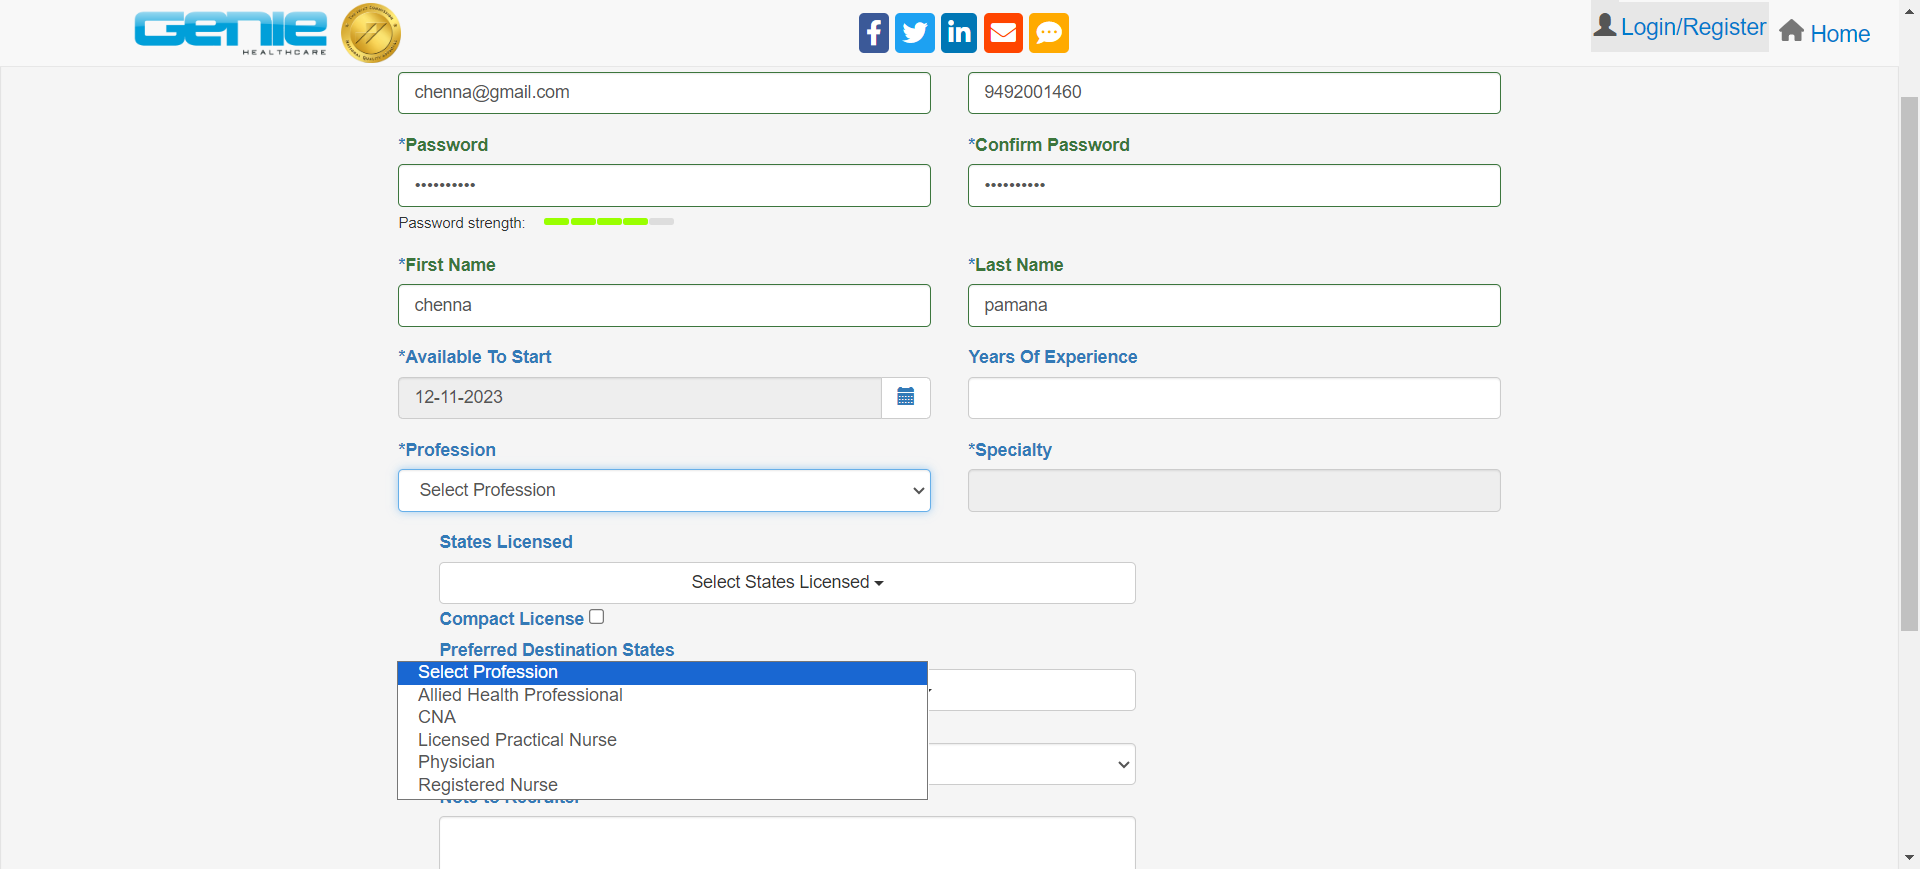
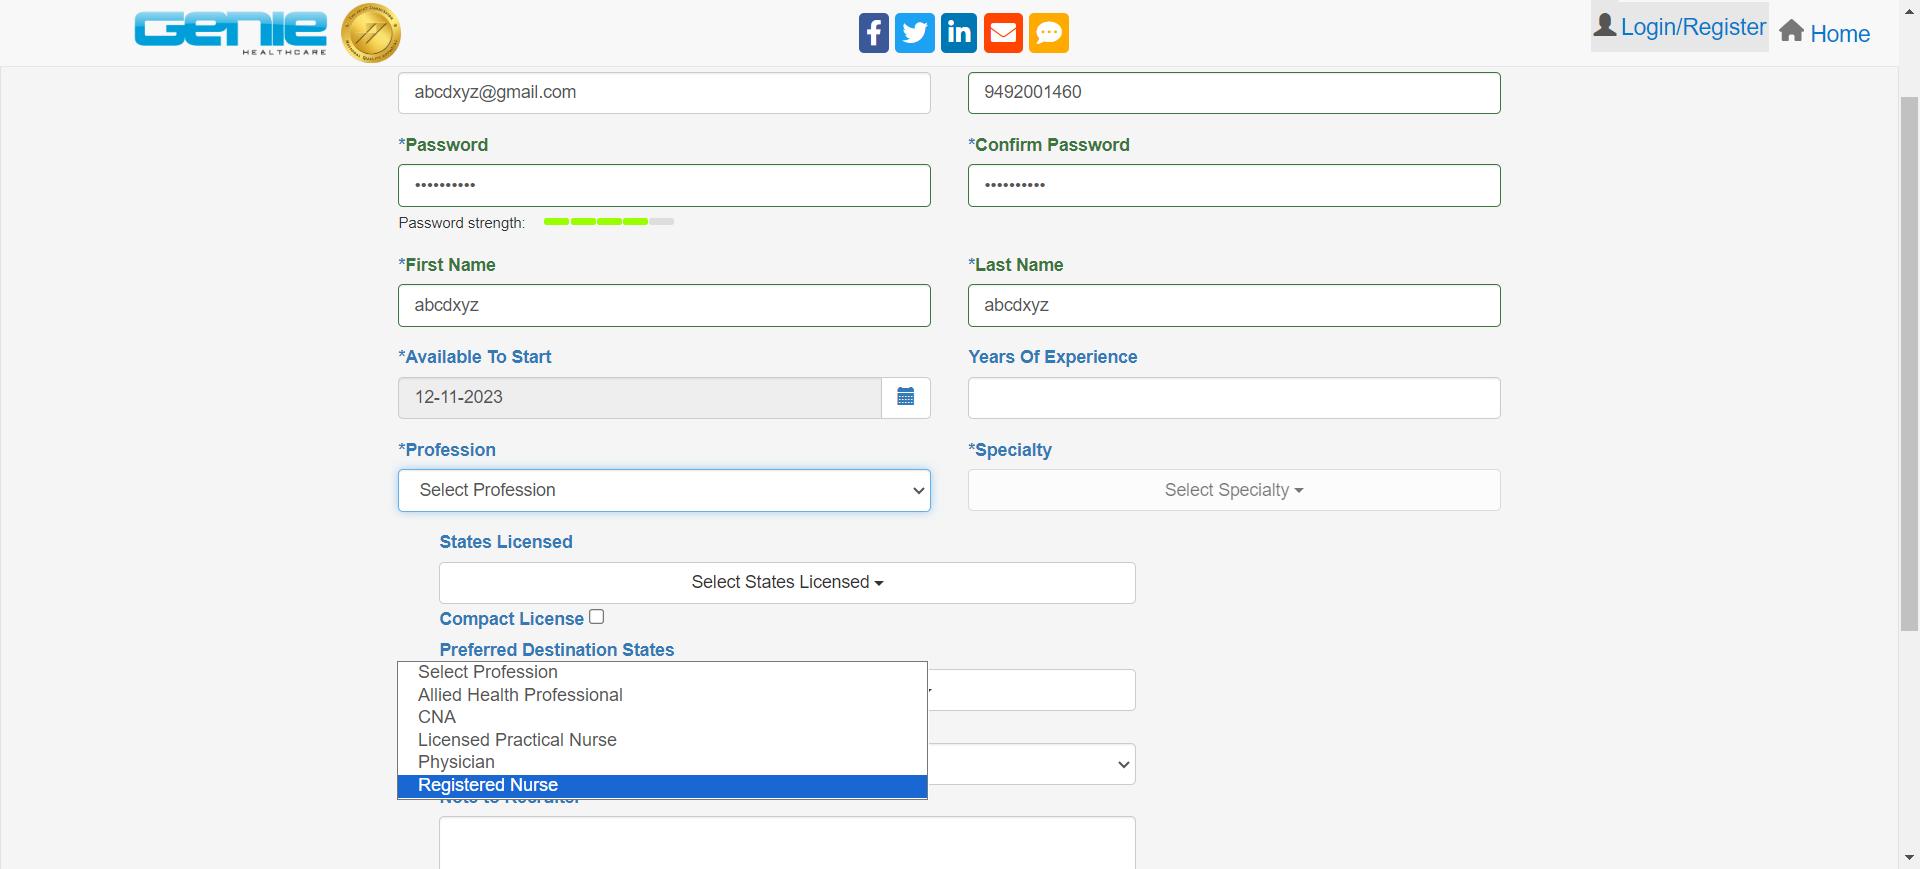
registration feature changes

diff --git a/features/step-definitions/genieregistration.steps.js b/features/step-definitions/genieregistration.steps.js
@@ -1,6 +1,9 @@
 const { Given, When, Then } = require('@wdio/cucumber-framework');
 const genieregistrationPage = require('../pageobjects/genieregistration.page');
 
+const path = require('path');
+const resumefilePath = path.join(__dirname, '"C:\Users\Chenna Pamalaboiyina\Downloads\Chennakeshava.Resume.doc"');
+
 //----------Email Field-----------//
 Given(/^user is on Genie Caregiver Registration form$/, async() => {
      await genieregistrationPage.genieurl();
@@ -28,9 +31,9 @@ When(/^user enter invalid email value$/, async(table) => {
 });
 
 Then('verify the email error message is {string}', async(errormessage) => {
-	let errormsgEle=genieregistrationPage.invalidEmailError;
+	let errormsgEle=genieregistrationPage.invalidEmailError2;
 	await expect(errormsgEle).toHaveTextContaining(errormessage);
-	console.log('Errormessage :'+errormsgEle.getText()); 
+	console.log('Errormessage :'+errormsgEle.getText());
 	await browser.pause(2000);
 });
 
@@ -196,17 +199,17 @@ Then('user is able to see a error message is {string}', async(error) => {
 
 When(/^user enter  multiple data into the firstname field$/, async(table) => {
      await genieregistrationPage.Firstname.clearValue();
-	 await browser.pause(2000);
+	 await browser.pause(1000);
 	 await genieregistrationPage.Firstname.setValue(table.raw()[0][0]);
-	 await browser.pause(2000);
+	 await browser.pause(1000);
 	 await genieregistrationPage.Firstname.clearValue();
-	 await browser.pause(2000);
+	 await browser.pause(1000);
 	 await genieregistrationPage.Firstname.setValue(table.raw()[1][0]);
-	 await browser.pause(2000);
+	 await browser.pause(1000);
 	 await genieregistrationPage.Firstname.clearValue();
-	 await browser.pause(2000);
+	 await browser.pause(1000);
 	 await genieregistrationPage.Firstname.setValue(table.raw()[2][0]);
-	 await browser.pause(2000);
+	 await browser.pause(1000);
 });
 
 When(/^user  click on Lastname field$/, async() => {
@@ -216,15 +219,15 @@ When(/^user  click on Lastname field$/, async() => {
 
 When(/^user enter valid data into the Lastname field$/, async(table) => {
 	await genieregistrationPage.Lastname.setValue(table.raw()[0][0]);
-	await browser.pause(2000);
+	await browser.pause(1000);
 	await genieregistrationPage.Lastname.clearValue();
-	await browser.pause(2000);
+	await browser.pause(1000);
 	await genieregistrationPage.Lastname.setValue(table.raw()[1][0]);
-	await browser.pause(2000);
+	await browser.pause(1000);
 	await genieregistrationPage.Lastname.clearValue();
-	await browser.pause(2000);
+	await browser.pause(1000);
 	await genieregistrationPage.Lastname.setValue(table.raw()[2][0]);
-	await browser.pause(2000);
+	await browser.pause(1000);
 });
   //----------calendar field--------//
  
@@ -262,7 +265,7 @@ Then('user select a future date as {string}', async(date) => {
 	await browser.pause(2000)
 	await genieregistrationPage.datePick(date).click();
 	await genieregistrationPage.calendarField.saveScreenshot('./Screenshots/dateText2.png');
-	await browser.pause(3000);
+	await browser.pause(2000);
 });
 
 // -------Profession and Specialty dropdowns------//
@@ -312,8 +315,10 @@ When(/^user select another option$/, async(text) => {
    
 });
 
-Then(/^user able to see a error message$/, async() => {
-     await browser.saveScreenshot('./Screenshots/errormsg.png');
+Then('user able to see a error message as {string}', async(error) => {
+	 await browser.saveScreenshot('./Screenshots/errormsg.png');
+	 var specialtyerror=await genieregistrationPage.SelectSpecialtyError;
+	 await expect(specialtyerror).toHaveTextContaining(error);
 	 await browser.pause(2000);
 });
 
@@ -352,3 +357,117 @@ Then(/^user select a given search option$/, async(text) => {
 	await genieregistrationPage.SpecialtyulForm(text.raw()[0][0]).click();
 	await browser.pause(2000);
 });
+//--------recruiter dropdowns-----//
+
+Given(/^user select a States Licensed button dropdown$/, async() => {
+    await genieregistrationPage.StatesLicensedButton.click();
+	await browser.pause(1000);
+});
+
+When(/^user selects below Licensed States$/, async(text) => {
+	await genieregistrationPage.StatesLicensedulForm(text.raw()[0][0]).click();
+	await browser.pause(2000);
+	await genieregistrationPage.StatesLicensedulForm(text.raw()[1][0]).click();
+	await browser.pause(2000);
+	await genieregistrationPage.StatesLicensedulForm(text.raw()[2][0]).click();
+	await browser.pause(2000);
+
+});
+
+Then(/^user remove last selected option$/, async(text) => {
+	await genieregistrationPage.StatesLicensedulForm(text.raw()[0][0]).click();
+	await browser.pause(2000);
+});
+
+When('user select search engine and enter as {string}', async(value) => {
+	await genieregistrationPage.StatesLicensedsearchEngine.click();
+    await genieregistrationPage.StatesLicensedsearchEngine.setValue(value);
+	await browser.pause(2000);
+});
+Then(/^user selects particular option$/, async(text) => {
+	await genieregistrationPage.StatesLicensedulForm(text.raw()[0][0]).click();
+	await browser.pause(2000);
+	await genieregistrationPage.StatesLicensedButton.click();
+});
+
+Given(/^user select a Destination States button dropdown$/, async() => {
+    await genieregistrationPage.DestinationStatesdButton.click();
+	await browser.pause(1000);
+});
+
+When(/^user selects below Destination States$/,async(text) => {
+	await genieregistrationPage.DestinationStatesulForm(text.raw()[0][0]).click();
+	await browser.pause(2000);
+	await genieregistrationPage.DestinationStatesulForm(text.raw()[1][0]).click();
+	await browser.pause(2000);
+	await genieregistrationPage.DestinationStatesulForm(text.raw()[2][0]).click();
+	await browser.pause(2000);
+
+});
+
+Then(/^user remove last selected Destination option$/, async(text) => {
+	await genieregistrationPage.DestinationStatesulForm(text.raw()[0][0]).click();
+	await browser.pause(2000);
+});
+
+When('user select search engine and enter as {string} value', async(value) => {
+	await genieregistrationPage.DestinationStatessearchEngine.click();
+    await genieregistrationPage.DestinationStatessearchEngine.setValue(value);
+	await browser.pause(2000);
+});
+
+Then(/^user selects the given particular option$/, async(text) => {
+	await genieregistrationPage.DestinationStatesulForm(text.raw()[0][0]).click();
+	await browser.pause(2000);
+	await genieregistrationPage.DestinationStatesdButton.click();
+});
+
+Given(/^user select the Preferred Recruiter dropdown$/, async() => {
+   await genieregistrationPage.recruiterProfileDropdown.click();
+});
+
+Then(/^user not select any options from Preferred Recruiter dropdown$/, async() => {
+    await genieregistrationPage.NoteToRecruiterField.click();
+	await browser.pause(1000); 
+});
+
+Then(/^user able to see Preferred Recruiter field highlighted with red color$/, async() => {
+   let color= await genieregistrationPage.recruiterProfileDropdown.getCSSProperty('border-color');
+   console.log('border-color :'+color);
+   await genieregistrationPage.recruiterProfileDropdown.saveScreenshot('./Screenshots/redcolField.png');
+   await browser.pause(1000);
+});
+
+When(/^user select options from Preferred Recruiter dropdown$/, async() => {
+	await genieregistrationPage.recruiterProfileDropdown.selectByIndex(2);
+	await browser.pause(1000);
+	await genieregistrationPage.recruiterProfileDropdown.selectByIndex(4);
+	await browser.pause(1000);
+});
+
+Then(/^user able to see Preferred Recruiter field highlighted with green color$/, async() => {
+	let color= await genieregistrationPage.recruiterProfileDropdown.getCSSProperty('border-color');
+	console.log('border-color :'+color);
+	await genieregistrationPage.recruiterProfileDropdown.saveScreenshot('./Screenshots/greencolField.png');
+	await browser.pause(2000);
+});
+//--------------Handling the Resume Field---------//
+
+ When(/^user click on the Resume input field$/, async() => {
+    await genieregistrationPage.ResumeInputField.click();
+	await browser.pause(1000);
+});
+
+When(/^upload the resume format type as Microsoft Word Document$/, async() => {
+	const remoteFilePath=browser.uploadFile(resumefilePath);
+	await browser.pause(1000);
+	await genieregistrationPage.ResumeInputField.setValue(remoteFilePath);
+	await browser.pause(2000);
+});
+
+Then(/^click on the uploadResume button$/, async() => {
+    await genieregistrationPage.uploadResumeButton.click();
+	await browser.pause(5000);
+});
+
+

diff --git a/features/pageobjects/genieregistration.page.js b/features/pageobjects/genieregistration.page.js
@@ -11,8 +11,11 @@ class GenieRegistration{
     get passwordfield(){
         return $('#password');
     }
-    get invalidEmailError(){
+    get invalidEmailError1(){
         return $("//p[normalize-space()='Your email is invalid.']");
+    }
+    get invalidEmailError2(){
+        return $("//p[normalize-space()='Please enter a valid email address of the format aaa@bbb.ccc']");
     }
     get existingEmailError(){
         return $("//div[@class='alert alert-danger']");
@@ -71,11 +74,50 @@ class GenieRegistration{
     get SelectSpecialty(){
         return $("(//button[contains(@class,'btn dropdown-toggle')])[1]");
     }
+    get SelectSpecialtyError(){
+        return $("(//div[contains(@class,'form-group')])[8]/div/p");
+    }
     SpecialtyulForm(text){
         return $(`(//ul[@class='dropdown-menu dropdown-menu-form'])[1]/li//a[normalize-space()="${text}"]`);
     }
     get searchEngine(){
         return $("(//input[@type='text'])[5]");
+    }
+    get StatesLicensedButton(){
+        return $("(//button[@type='button'])[8]");
+    }
+    get DestinationStatesdButton(){
+        return $("(//button[@type='button'])[9]");
+    }
+    get StatesLicensedsearchEngine(){
+        return $("(//input[@type='text'])[6]");
+    }
+    StatesLicensedulForm(text){
+        return $(`(//ul[@class='dropdown-menu dropdown-menu-form'])[2]/li//a[normalize-space()="${text}"]`);
+    }
+    DestinationStatesulForm(text){
+        return $(`(//ul[@class='dropdown-menu dropdown-menu-form'])[3]/li//a[normalize-space()="${text}"]`);
+    }
+    get DestinationStatessearchEngine(){
+        return $("(//input[@type='text'])[7]");
+    }
+    get recruiterProfileDropdown(){
+        return $("//select[@id='field_recruiterProfile']");
+    }
+    get NoteToRecruiterField(){
+        return $("#field_notes");
+    }
+    get ResumeInputField(){
+        return $("//input[@class='form-control']");
+    }
+    get uploadResumeButton(){
+        return $("//button[normalize-space()='Upload Resume']");
+    }
+    get RegisterButton(){
+        return $("//button[normalize-space()='Register']");
+    }
+    get HomeJobListingButton(){
+        return $("(//button[@type='button'])[11]");
     }
 
 

diff --git a/wdio.conf.js b/wdio.conf.js
@@ -127,7 +127,7 @@ exports.config = {
     // reporters: ['spec',['allure', {outputDir: 'allure-results'}]],
     reporters: [['allure', {
         outputDir: 'allure-results',
-        disableWebdriverStepsReporting: true,
+        disableWebdriverStepsReporting: false,
         disableWebdriverScreenshotsReporting: false,
     }]],
 
